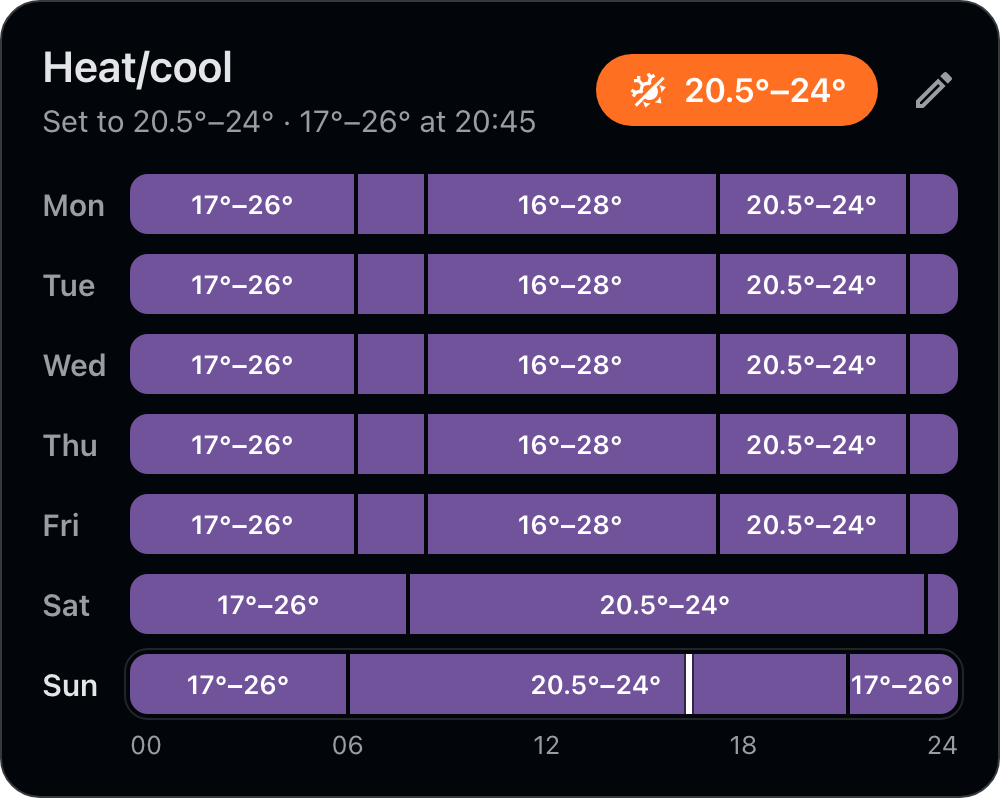
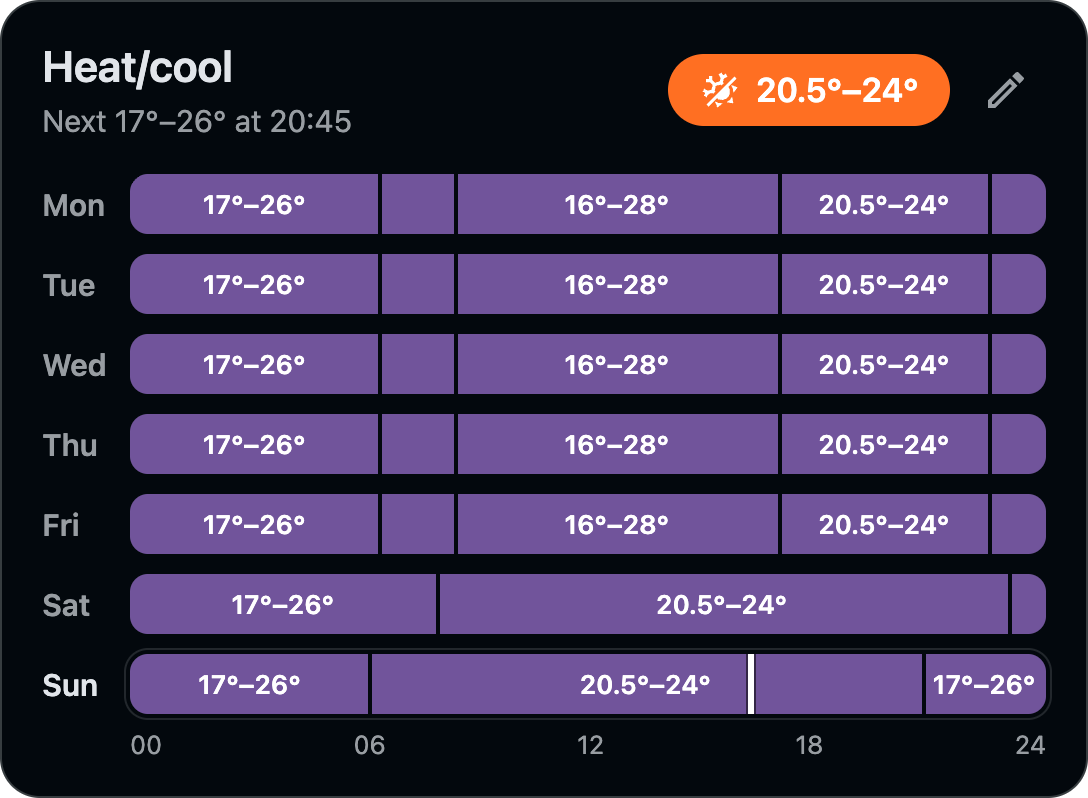
cards: keep schedule controls inline and make day rows keyboard accessible

diff --git a/custom_components/unfr0zen/frontend/unfr0zen-cards.js b/custom_components/unfr0zen/frontend/unfr0zen-cards.js
@@ -195,10 +195,9 @@ function zonedNow(timeZone) {
   return { day: day < 0 ? 0 : day, minute: Number(part("hour")) * 60 + Number(part("minute")) };
 }
 
-/** When a change `ahead` minutes from now, on `day`, at `minute`, happens: "at 22:30", "tomorrow 06:30", "Wed 06:30". */
+/** When a change `ahead` minutes from now, on `day`, at `minute`, happens: "at 22:30", "Wed 06:30". */
 function when(now, day, minute, ahead) {
   if (day === now.day && ahead < DAY) return t("when_at", { time: clock(minute) });
-  if (day === (now.day + 1) % 7 && ahead < 2 * DAY) return t("when_tomorrow", { time: clock(minute) });
   return t("when_day", { day: dayName(day), time: clock(minute) });
 }
 
@@ -217,26 +216,12 @@ function along(minute) {
   return `${(minute / DAY) * 100}%`;
 }
 
-/** The header's layouts, the first that fits taken: the controls beside the titles, then the same with only the
- * pills' icons, then the controls on a line of their own, then that with only the icons. */
-const HEAD_LAYOUTS = [[], ["compact"], ["wrapped"], ["wrapped", "compact"]];
-
-/** Hides what doesn't fit in `root` as laid out: the header's pill texts, as HEAD_LAYOUTS has them; a slot's label
- * wider than its slot; the axis's in-between hours while its labels would touch (then all but its ends, then all but
- * midnight). */
+/** Fit the header, slot labels and time axis to the card's available width. */
 function fit(root) {
   for (const head of root.querySelectorAll(".head")) {
     const titles = head.querySelector(".titles");
-    const controls = head.querySelector(".controls");
-    for (const layout of HEAD_LAYOUTS) {
-      head.classList.remove("compact", "wrapped");
-      head.classList.add(...layout);
-      // On one line: each box level with the first, its items being centred on the line.
-      const level = (boxes) => boxes.every((b) => b.top < boxes[0].bottom && boxes[0].top < b.bottom);
-      const boxes = (els) => els.map((e) => e.getBoundingClientRect());
-      const fits = level(boxes(layout.includes("wrapped") ? [...controls.children] : [titles, controls]));
-      if (fits) break;
-    }
+    head.classList.remove("compact");
+    if ([...titles.children].some((line) => line.scrollWidth > titles.clientWidth)) head.classList.add("compact");
   }
   for (const el of root.querySelectorAll(".seg, .block")) {
     el.classList.remove("clipped");
@@ -428,10 +413,9 @@ const STYLES = `
     container-type: inline-size;
   }
   ha-card { display: block; padding: 20px 20px 18px; }
-  /* The controls go under the titles when the two don't fit side by side. */
-  .head { display: flex; flex-wrap: wrap; align-items: center; gap: 12px; margin-bottom: 18px; }
-  /* At least as wide as the title's longest word. */
-  .titles { flex: 1 1 10em; min-width: min-content; }
+  .head { display: grid; grid-template-columns: minmax(0, 1fr) auto; align-items: center; column-gap: 8px; margin-bottom: 18px; }
+  .titles { min-width: 0; }
+  .title, .subtitle { overflow: hidden; white-space: nowrap; text-overflow: ellipsis; }
   .title { font-size: 1.35rem; font-weight: 600; line-height: 1.2; }
   .subtitle { color: var(--u0-muted); margin-top: 4px; font-size: 0.95rem; }
   .pill {
@@ -444,14 +428,14 @@ const STYLES = `
   .pill.cooling { background: var(--state-climate-cool-color, #2196f3); color: #fff; }
   button.pill { cursor: pointer; }
   .pill ha-icon { --mdc-icon-size: 20px; }
-  /* On a line of their own, the controls wrap rather than leave the card. */
-  .controls { display: flex; flex-wrap: wrap; align-items: center; gap: 8px; min-width: 0; }
-  /* The edit button's icon, not the circle around it, at the card's edge. */
-  .controls > .edit-button { margin-right: -8px; }
-  .head.wrapped > .controls { flex-basis: 100%; }
-  /* Short of room, the pills keep their icons and lose their text. */
-  .head.compact .pill { padding: 8px; gap: 0; }
-  .head.compact .pill .text { display: none; }
+  .controls { grid-area: 1 / 2; display: flex; align-items: center; gap: 8px; }
+  /* Keep the text block beside the controls, reducing button labels when space is tight. */
+  .head.compact, .head.compact .controls { column-gap: 4px; }
+  .head.compact .pill { padding-inline: 8px; gap: 4px; }
+  .head.compact .edit-button { width: 32px; }
+  .head.compact .boost { padding: 8px; gap: 0; }
+  .head.compact .boost .text { display: none; }
+  .head.compact [role="switch"] { font-size: 0.95rem; }
   .boost-wrap { position: relative; }
   .pill.boost { font-size: 0.95rem; padding: 8px 14px; }
   .pill.boost.active { background: var(--u0-boost); color: #fff; }
@@ -469,7 +453,10 @@ const STYLES = `
   .heating-now { display: inline-flex; align-items: center; gap: 4px; margin-top: 6px; color: var(--u0-warm);
     font-weight: 600; font-size: 0.88rem; }
   .heating-now ha-icon { --mdc-icon-size: 16px; }
-  .week { display: grid; grid-template-columns: 44px 1fr; row-gap: 10px; align-items: center; }
+  .week { display: grid; row-gap: 10px; }
+  .week-row { display: grid; grid-template-columns: 44px minmax(0, 1fr); align-items: center; background: none;
+    border: 0; border-radius: 9px; color: inherit; padding: 0; font: inherit; text-align: start; min-width: 0; }
+  .week-row:focus-visible { outline: 2px solid var(--primary-color, currentColor); outline-offset: 3px; }
   .day { font-weight: 600; color: var(--u0-muted); font-size: 0.95rem; }
   .day.today { color: var(--u0-text); }
   .bar {
@@ -478,7 +465,7 @@ const STYLES = `
   }
   .bar.today { outline: 1px solid var(--u0-line); outline-offset: 2px; }
   .week [data-action] { cursor: pointer; }
-  .bar[data-action]:hover { filter: brightness(1.12); }
+  button.week-row:hover .bar { filter: brightness(1.12); }
   .seg {
     position: absolute; top: 0; bottom: 0; display: flex; align-items: center; justify-content: center;
     font-weight: 600; font-size: 0.82rem; white-space: nowrap; overflow: hidden;
@@ -503,7 +490,7 @@ const STYLES = `
   @container (max-width: 420px) {
     .seg.small, .block.small { color: transparent; }
     .title { font-size: 1.2rem; }
-    .week { grid-template-columns: 38px 1fr; }
+    .week-row { grid-template-columns: 38px minmax(0, 1fr); }
     .axis.indent { margin-left: 38px; }
     ha-card { padding: 16px 14px 14px; }
   }
@@ -719,7 +706,7 @@ class ScheduleCard extends HTMLElement {
   _render() {
     if (!this._config || !this.shadowRoot) return;
     if (!this.shadowRoot.querySelector("ha-card")) {
-      this.shadowRoot.innerHTML = `<style>${STYLES}</style><ha-card></ha-card><dialog></dialog>`;
+      this.shadowRoot.innerHTML = `<style>${STYLES}</style><ha-card></ha-card><dialog aria-labelledby="editor-title"></dialog>`;
       this.shadowRoot.addEventListener("click", (e) => this._click(e));
       this.shadowRoot.addEventListener("change", (e) => this._change(e));
       // A field's change fires as a press elsewhere blurs it: the editor is
@@ -741,8 +728,13 @@ class ScheduleCard extends HTMLElement {
       resized.observe(this.shadowRoot.querySelector("ha-card"));
       resized.observe(dialog);
       dialog.addEventListener("close", () => {
+        if (dialog.open) return;
         this._editor = null;
         this._drag = null;
+        // A card refresh can replace the opener while the editor is open.
+        if (this._opener && (document.activeElement === document.body || dialog.contains(this.shadowRoot.activeElement)))
+          this.shadowRoot.querySelector(this._opener)?.focus({ preventScroll: true });
+        this._opener = null;
       });
       // Escape asks before changes are discarded; pressed again, it closes.
       dialog.addEventListener("cancel", (e) => {
@@ -768,7 +760,9 @@ class ScheduleCard extends HTMLElement {
     this.classList.toggle("ranging", state.attributes.mode === "range");
     this.setAttribute("lang", language);
     this._language = language;
+    const focusedDay = this.shadowRoot.activeElement?.closest(".week-row")?.dataset.day;
     card.innerHTML = this._cardHtml(state);
+    if (focusedDay !== undefined) card.querySelector(`button[data-day="${focusedDay}"]`)?.focus({ preventScroll: true });
     fit(card);
   }
 
@@ -790,9 +784,13 @@ class ScheduleCard extends HTMLElement {
     return `<button class="icon-button edit-button" data-action="open" aria-label="${t("edit")}" title="${t("edit_hint")}"><ha-icon icon="mdi:pencil-outline"></ha-icon></button>`;
   }
 
-  /** What has a day's name and bar open the editor on that day. */
-  _opens(state, day) {
-    return this._editable(state) ? ` data-action="open" data-day="${day}"` : "";
+  _dayRow(state, day, now, bar) {
+    const today = day === now.day;
+    const cls = today ? " today" : "";
+    const marker = today ? `<span class="now" style="left:${along(now.minute)}"></span>` : "";
+    const content = `<span class="day${cls}">${dayName(day)}</span><span class="bar${cls}">${bar}${marker}</span>`;
+    if (!this._editable(state)) return `<div class="week-row">${content}</div>`;
+    return `<button class="week-row" data-action="open" data-day="${day}" aria-label="${t("edit")} · ${dayName(day, "long")}">${content}</button>`;
   }
 
   /** A time field, "06 : 30", for row `i`'s `field`; on the 12-hour clock "6 : 30" and a button between AM and PM. */
@@ -814,6 +812,7 @@ class ScheduleCard extends HTMLElement {
   /** Opens the editor on `day`, or on today. */
   _open(day) {
     const state = this._state;
+    this._opener = day === undefined ? ".edit-button" : `.week-row[data-day="${day}"]`;
     const week = this._week(state);
     const draft = {};
     for (const name of DAYS) draft[name] = this._rowsOf(week[name] ?? []);
@@ -873,21 +872,19 @@ class ScheduleCard extends HTMLElement {
       // While copying, the other days' tabs take the shown day's rows or give them back.
       const pick = e.copying && i !== e.day;
       const title = pick ? t("copy_day_hint", { day: dayName(i, "long") }) : dayName(i, "long");
-      return `<button class="tab${selected}${changed}${pick ? " pick" : ""}" data-action="day" data-day="${i}" title="${title}">
+      return `<button class="tab${selected}${changed}${pick ? " pick" : ""}" data-action="day" data-day="${i}" aria-pressed="${i === e.day || e.copy.has(d)}" title="${title}">
         <span class="label">${dayName(i)}</span><span class="mini">${this._miniHtml(week, i)}</span></button>`;
     }).join("");
     const actions = e.discarding
       ? `<span class="ask">${t("discard_question")}</span>
           <span class="answers"><button class="action" data-action="keep">${t("keep_editing")}</button>
             <button class="action danger" data-action="discard">${t("discard")}</button></span>`
-      : `<button class="action${e.copying ? " active" : ""}" data-action="copy" aria-pressed="${e.copying}" title="${t("copy_hint")}"><ha-icon icon="mdi:content-copy"></ha-icon>${t("copy")}</button>
+      : `<button class="action${e.copying ? " active" : ""}" data-action="copy" aria-pressed="${e.copying}" ${e.saving ? "disabled" : ""} title="${t("copy_hint")}"><ha-icon icon="mdi:content-copy"></ha-icon>${t("copy")}</button>
           <button class="action primary${this._water ? " water" : ""}" data-action="save" title="${t("save_hint")}"
             ${!Object.keys(changes).length || problems.size || e.saving ? "disabled" : ""}>${e.saving ? t("saving") : t("save")}</button>`;
-    // A copy that would be refused, by the day it goes to.
-    const copied = [...problems]
-      .filter(([key]) => e.copy.has(key.split(":")[0]))
-      .flatMap(([key, texts]) => texts.map((text) => `${dayName(DAYS.indexOf(key.split(":")[0]), "long")}: ${text}`));
-    const errors = [...new Set([...(problems.get(name) ?? []), ...copied]), ...(e.error ? [e.error] : [])];
+    const errors = DAYS.flatMap((d, i) => (problems.get(d) ?? []).map((text) =>
+      d === name ? text : `${dayName(i, "long")}: ${text}`));
+    if (e.error) errors.push(e.error);
     // The time field being typed in, or the button pressed from the keyboard, to have it again once redrawn.
     const active = this.shadowRoot.activeElement;
     const focus = active && dialog.contains(active)
@@ -896,7 +893,7 @@ class ScheduleCard extends HTMLElement {
     dialog.innerHTML = `
       <div class="panel${this._drag ? " dragging" : ""}" role="document">
         <div class="panel-head">
-          <span class="panel-title">${escapeHtml(this._title())}</span>
+          <span class="panel-title" id="editor-title">${escapeHtml(this._title())}</span>
           <button class="icon-button" data-action="close" aria-label="${t("close")}" title="${t("close_hint")}"><ha-icon icon="mdi:close"></ha-icon></button>
         </div>
         <div class="tabs">${tabs}</div>
@@ -908,7 +905,7 @@ class ScheduleCard extends HTMLElement {
           <button class="add" data-action="add" title="${rows.length >= max ? t("at_most_a_day", { max }) : this._addLabel}" ${rows.length >= max ? "disabled" : ""}>
             <ha-icon icon="mdi:plus"></ha-icon>${this._addLabel}</button>
         </div>
-        ${errors.length ? `<div class="errors">${errors.map(escapeHtml).join("<br>")}</div>` : ""}
+        ${errors.length ? `<div class="errors">${[...new Set(errors)].map(escapeHtml).join("<br>")}</div>` : ""}
         <div class="actions">${actions}</div>
       </div>`;
     fit(dialog);
@@ -1186,7 +1183,7 @@ class Unfr0zenHeatingCard extends ScheduleCard {
         const cls = `seg${w > 45 ? " warm" : ""}${width < 13 ? " small" : ""}${this._range && s.start > 0 ? " divided" : ""}`;
         const label = labels && width >= (s.high === null ? 6 : 11) ? temps(s) : "";
         const title = labels ? ` title="${clock(s.start)}–${clock(s.end)} · ${temps(s)}"` : "";
-        return `<div class="${cls}" style="${style}"${title}>${label}</div>`;
+        return `<span class="${cls}" style="${style}"${title}>${label}</span>`;
       })
       .join("");
   }
@@ -1198,47 +1195,37 @@ class Unfr0zenHeatingCard extends ScheduleCard {
     const warmth = this._warmth(points);
     const { current, next } = heatingNow(points, now);
     const away = unavailable(state);
-    let subtitle = t(away ? "unavailable" : "no_schedule");
-    if (current && !away) {
-      subtitle = t("set_to", { temps: temps(current) });
-      if (next) subtitle += ` · ${t("next_change", { temps: temps(next), when: when(now, next.day, next.minute, next.ahead) })}`;
-    }
-    const rows = DAYS.map((_, day) => {
-      const today = day === now.day;
-      const marker = today ? `<div class="now" style="left:${(now.minute / DAY) * 100}%"></div>` : "";
-      const bar = points.length && !away
-        ? this._segmentsHtml(points, day, true, warmth)
-        : `<span class="empty">${t(away ? "unavailable" : "no_setpoints")}</span>`;
-      return `<div class="day${today ? " today" : ""}"${this._opens(state, day)}>${dayName(day)}</div>
-        <div class="bar${today ? " today" : ""}"${this._opens(state, day)}>${bar}${marker}</div>`;
-    }).join("");
+    const climate = this._hass.states[this._relatedEntity()];
+    const a = climate && !["unavailable", "unknown"].includes(climate.state) ? climate.attributes : {};
+    const live = a.temperature != null ? shown(Number(a.temperature))
+      : a.target_temp_low != null && a.target_temp_high != null ? `${shown(Number(a.target_temp_low))}–${shown(Number(a.target_temp_high))}` : "";
+    const scheduled = current && !away ? temps(current) : "";
+    const notes = [];
+    if (!scheduled) notes.push(t(away ? "unavailable" : "no_schedule"));
+    if (next && !away) notes.push(t("next_change", { temps: temps(next), when: when(now, next.day, next.minute, next.ahead) }));
+    if (scheduled && live && live !== scheduled) notes.push(t("scheduled_temp", { temps: scheduled }));
+    const subtitle = escapeHtml(notes.join(" · "));
+    const rows = DAYS.map((_, day) => this._dayRow(state, day, now, points.length && !away
+      ? this._segmentsHtml(points, day, true, warmth)
+      : `<span class="empty">${t(away ? "unavailable" : "no_setpoints")}</span>`)).join("");
     return `
       <div class="head">
         <div class="titles"><div class="title">${escapeHtml(this._title())}</div>
-          <div class="subtitle">${escapeHtml(subtitle)}</div></div>
-        <div class="controls">${this._pillHtml(current)}${this._editHtml(state)}</div>
+          ${subtitle ? `<div class="subtitle" title="${subtitle}">${subtitle}</div>` : ""}</div>
+        <div class="controls">${this._pillHtml(live, scheduled, a.hvac_action)}${this._editHtml(state)}</div>
       </div>
       <div class="week">${rows}</div>
       ${this._axis(true)}`;
   }
 
-  _pillHtml(current) {
-    const climate = this._relatedEntity() && this._hass.states[this._relatedEntity()];
-    let text = current ? temps(current) : "–";
-    let action = null;
-    if (climate) {
-      const a = climate.attributes;
-      // The climate entity's own, in Home Assistant's unit.
-      if (a.temperature != null) text = shown(Number(a.temperature));
-      else if (a.target_temp_low != null && a.target_temp_high != null)
-        text = `${shown(Number(a.target_temp_low))}–${shown(Number(a.target_temp_high))}`;
-      // Lit while the thermostat heats or cools.
-      if (a.hvac_action === "heating" || a.hvac_action === "cooling") action = a.hvac_action;
-    }
-    const hint = t(action ? `target_${action}` : "target");
+  _pillHtml(live, scheduled, hvacAction) {
+    if (!live && !scheduled) return "";
+    const text = live || t("scheduled_temp", { temps: scheduled });
+    const action = hvacAction === "heating" || hvacAction === "cooling" ? hvacAction : "";
+    const hint = live ? t(action ? `target_${action}` : "target") : text;
     // The schedule's mode, in Home Assistant's icons for it.
     const icon = { cool: "mdi:snowflake", range: "mdi:sun-snowflake-variant" }[this._state?.attributes.mode] ?? "mdi:fire";
-    return `<span class="pill${action ? ` ${action}` : ""}" title="${text} · ${hint}"><ha-icon icon="${icon}"></ha-icon><span class="text">${text}</span></span>`;
+    return `<span class="pill${action ? ` ${action}` : ""}" title="${hint}"><ha-icon icon="${icon}"></ha-icon><span class="text">${text}</span></span>`;
   }
 
   // --- Editor rows: a time and a temperature ---
@@ -1482,7 +1469,7 @@ class Unfr0zenHotWaterCard extends ScheduleCard {
         const width = ((b.end - b.start) / DAY) * 100;
         const label = labels && b.first && width >= 5 ? duration(b.length) : "";
         const title = labels ? ` title="${clock(b.start)}–${clock(b.end)} · ${duration(b.length)}"` : "";
-        return `<div class="block${width < 9 ? " small" : ""}" style="left:${left}%;width:${width}%"${title}>${label}</div>`;
+        return `<span class="block${width < 9 ? " small" : ""}" style="left:${left}%;width:${width}%"${title}>${label}</span>`;
       })
       .join("");
   }
@@ -1495,8 +1482,7 @@ class Unfr0zenHotWaterCard extends ScheduleCard {
     let subtitle = t("no_periods");
     if (spans.length) {
       const next = status.next ? t("next_period", { when: when(now, status.next.day, status.next.on, status.next.ahead) }) : "";
-      const state = status.on ? t("on_until", { time: clock(status.until) }) : t("off");
-      subtitle = next ? `${state} · ${next}` : state;
+      subtitle = [status.on ? t("on_until", { time: clock(status.until) }) : "", next].filter(Boolean).join(" · ");
     }
     if (boost.active) subtitle = boost.minutes ? t("boosting_for", { duration: duration(boost.minutes) }) : t("boosting");
     const away = unavailable(state);
@@ -1505,33 +1491,30 @@ class Unfr0zenHotWaterCard extends ScheduleCard {
     const heating = active && this._hass.states[active]?.state === "on"
       ? `<div class="heating-now"><ha-icon icon="mdi:fire"></ha-icon>${t("heating_now")}</div>`
       : "";
-    const rows = DAYS.map((_, day) => {
-      const today = day === now.day;
-      const marker = today ? `<div class="now" style="left:${(now.minute / DAY) * 100}%"></div>` : "";
-      return `<div class="day${today ? " today" : ""}"${this._opens(state, day)}>${dayName(day)}</div>
-        <div class="bar${today ? " today" : ""}"${this._opens(state, day)}>${away ? `<span class="empty">${t("unavailable")}</span>` : this._blocksHtml(spans, day, true)}${marker}</div>`;
-    }).join("");
+    const rows = DAYS.map((_, day) => this._dayRow(state, day, now,
+      away ? `<span class="empty">${t("unavailable")}</span>` : this._blocksHtml(spans, day, true))).join("");
     return `
       <div class="head">
         <div class="titles"><div class="title">${escapeHtml(this._title())}</div>
-          <div class="subtitle">${escapeHtml(subtitle)}</div>${heating}</div>
-        <div class="controls">${this._boostHtml(boost)}${this._pillHtml(state, status)}${this._editHtml(state)}</div>
+          <div class="subtitle" title="${escapeHtml(subtitle)}">${escapeHtml(subtitle)}</div>${heating}</div>
+        <div class="controls">${this._boostHtml(boost)}${this._pillHtml()}${this._editHtml(state)}</div>
       </div>
       <div class="week">${rows}</div>
       ${this._axis(true)}`;
   }
 
-  /** On/off: the schedule switch's, else the water heater's (anything but "off"), else the calendar's. */
-  _pillHtml(state, status) {
+  _pillHtml() {
     const { switch: sw, waterHeater } = this._related();
-    const entity = (sw && this._hass.states[sw]) || (waterHeater && this._hass.states[waterHeater]);
-    if (entity) {
-      const on = sw && this._hass.states[sw] ? entity.state === "on" : entity.state !== "off";
-      return `<button class="pill${on ? " on" : ""}" data-action="toggle" title="${t(on ? "turn_off" : "turn_on")}">
-        <ha-icon icon="mdi:water-boiler"></ha-icon><span class="text">${t(on ? "on" : "off")}</span></button>`;
-    }
-    const on = state.state === "on" || status.on;
-    return `<span class="pill${on ? " on" : ""}" title="${t(on ? "on_now" : "off_now")}"><ha-icon icon="mdi:water-boiler"></ha-icon><span class="text">${t(on ? "on" : "off")}</span></span>`;
+    const schedule = this._hass.states[sw];
+    const entity = schedule || this._hass.states[waterHeater];
+    if (!entity) return "";
+    const available = !["unknown", "unavailable"].includes(entity.state);
+    const on = available && (schedule ? entity.state === "on" : entity.state !== "off");
+    const label = t(schedule ? "schedule" : "hot_water");
+    const status = t(!available ? "unavailable" : on ? "on" : "off");
+    return `<button class="pill${on ? " on" : ""}" data-action="toggle" role="switch" aria-label="${label}" aria-checked="${on}"
+      title="${available ? t(on ? "turn_off" : "turn_on") : status}" ${available ? "" : "disabled"}>
+      <ha-icon icon="mdi:water-boiler"></ha-icon><span class="text">${status}</span></button>`;
   }
 
   async _toggle() {

diff --git a/README.md b/README.md
@@ -167,16 +167,19 @@ type: custom:unfr0zen-hot-water-card
 entity: calendar.nest_thermostat_hot_water_schedule
 ```
 
-- **Heating** shows the week's setpoints, the one in effect and the next, and the thermostat's target, lit in Home
-  Assistant's heating or cooling colour while the Nest heats or cools. In Cool it shows the cooling schedule, titled
-  **Cooling**; in Heat·Cool the heat-cool one, titled **Heat/cool**, each change a low and a high.
-- **Hot water** shows the week's on periods, whether hot water is on now and when it next comes on, with its boost and
-  its on/off switch. Boost runs for 30 minutes, 1 or 2 hours over MQTT and Matter, and over Zigbee2MQTT when the
+- **Heating** shows the week's setpoints and the next change. The pill shows the thermostat's target, lit in Home
+  Assistant's heating or cooling colour while the Nest heats or cools. If the target differs from the schedule, the subtitle also
+  shows the scheduled temperature. With no live target, the pill shows the scheduled temperature. In Cool, the card shows the
+  **Cooling** schedule. In Heat·Cool, it shows the **Heat/cool** schedule with a low and a high for each change.
+- **Hot water** shows the week's on periods and the next scheduled run. **Heating now** follows the Nest’s activity
+  sensor when available. The boiler button shows **On** or **Off** and toggles the schedule switch or the linked
+  water heater. Boost runs for 30 minutes, 1 or 2 hours over MQTT and Matter, and over Zigbee2MQTT when the
   converter offers those lengths; otherwise for the Nest's fixed 30 minutes.
-- **The pencil** opens the editor on today, and **a day's bar** on that day: change, add or remove setpoints or periods,
-  and save; the Nest takes the days changed in one write. Closing with changes unsaved asks first.
-- **Copy to…** has the other days' tabs give those days the shown day's schedule: press a tab to copy to it, and again
-  to take that back.
+- **The pencil** opens the editor on today. Click a day's row or focus it and press Enter or Space to edit that day.
+  Add, change or remove setpoints or periods, then save. The Nest takes the changed days in one write. Closing with
+  unsaved changes asks first.
+- **Copy to…** lets you select destination days using the day tabs. Press a tab again to deselect it, then **Save**
+  to send the changed days to the Nest.
 - **Hover over a slot** for its times. Times are on Home Assistant's 12- or 24-hour clock, as your profile has it.
 - **Drag on the day's bar** to change times, in steps of 15 minutes. An edge changes one time; where two slots meet,
   both follow it. The middle of a slot moves it whole, keeping its length: a hot water period only as far as the free
